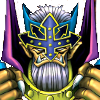
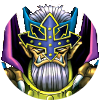
figured out modal stack, updated judgeman pic, played aorund with header... temporarily changed back to what it was before...

diff --git a/App.js b/App.js
@@ -1,21 +1,24 @@
 import React from 'react';
-import { StyleSheet, Text, View, Image } from 'react-native';
+import { Platform, StatusBar, StyleSheet, Text, View, Image } from 'react-native';
 
 import { createStackNavigator } from 'react-navigation';
 
 //(screens)
 import MainMenu from './Screens/MainMenu';
 import CardViewer from './Screens/CardViewer';
-import Card from './Screens/Card';
+
 import DeckBuilder from './Screens/DeckBuilder';
 import Calculator from './Screens/Calculator';
 import RulesResource from './Screens/RulesResource';
 //(/screens)
+//(modals)
+import Card from './Modals/Card';
+//(/modals)
 
 export default class App extends React.Component {
   render() {
     return (
-      <AppNavigator />
+      <RootStack />
     );
   }
 }
@@ -33,45 +36,45 @@ const ImageHeader = () => {
   );
 }
 
-const AppNavigator = createStackNavigator({
+const AppStack = createStackNavigator({
   MainMenu: {
-    screen: MainMenu,
-    navigationOptions: {
-      headerBackground: <ImageHeader style={{ justifyContent: "center" }}/>
-    }
+    screen: MainMenu
   },
   CardViewer: {
-    screen: CardViewer,
-    navigationOptions: {
-      headerBackground: <ImageHeader />
-    }
-  },
-  Card: {
-    screen: Card,
-    navigationOptions: {
-      headerBackground: <ImageHeader />
-    }
+    screen: CardViewer
   },
   DeckBuilder: {
-    screen: DeckBuilder,
-    navigationOptions: {
-      headerBackground: <ImageHeader />
-    }
+    screen: DeckBuilder
   },
   Calculator: {
-    screen: Calculator,
-    navigationOptions: {
-      headerBackground: <ImageHeader />
-    }
+    screen: Calculator
   },
   RulesResource: {
-    screen: RulesResource,
-    navigationOptions: {
-      headerBackground: <ImageHeader />
-    }
+    screen: RulesResource
+  }
+}, {
+  navigationOptions: {
+    headerBackground: <ImageHeader style={{ justifyContent: "center" }}/>
   }
 })
 
+const RootStack = createStackNavigator(
+  {
+    Main: {
+      screen: AppStack,
+    },
+    Card: {
+      screen: Card
+    }
+  },
+  {
+    mode: 'modal',
+    headerMode: 'none',
+    cardStyle: {
+      paddingTop: Platform.OS === 'ios' ? 0 : StatusBar.currentHeight
+    }
+  }
+);
 
 //background image from https://www.deviantart.com/slackermagician/art/millenium-rare-foil-Finished-product-546961387
 //calc icon from https://png.icons8.com/color/100/calculator.png

diff --git a/Screens/MainMenu.js b/Screens/MainMenu.js
@@ -1,5 +1,5 @@
 import React, { Component } from 'react';
-import { View, Text, StyleSheet, Button, ImageBackground, TouchableHighlight, Image } from 'react-native';
+import { View, Text, StyleSheet, Button, ImageBackground, TouchableOpacity, Image } from 'react-native';
 
 class MainMenu extends Component {
     render() {
@@ -14,21 +14,21 @@ class MainMenu extends Component {
             >   
                 <View style={styles.CenterMenu}>
                     <View style={styles.ViewFlexRow}>
-                        <TouchableHighlight onPress={() => this.props.navigation.navigate("CardViewer")}>
+                        <TouchableOpacity onPress={() => this.props.navigation.navigate("CardViewer")}>
                             <Image source={require('../images/CardViewer.png')} />
-                        </TouchableHighlight>
+                        </TouchableOpacity>
 
-                        <TouchableHighlight onPress={() => this.props.navigation.navigate("DeckBuilder")}>
+                        <TouchableOpacity onPress={() => this.props.navigation.navigate("DeckBuilder")}>
                             <Image source={require('../images/DeckBuilder.png')} />
-                        </TouchableHighlight>
+                        </TouchableOpacity>
                     </View>
                     <View style={styles.ViewFlexRow}>
-                        <TouchableHighlight onPress={() => this.props.navigation.navigate("Calculator")}>
+                        <TouchableOpacity onPress={() => this.props.navigation.navigate("Calculator")}>
                             <Image source={require('../images/Calculator.png')} />
-                        </TouchableHighlight>
-                        <TouchableHighlight onPress={() => this.props.navigation.navigate("RulesResource")}>
+                        </TouchableOpacity>
+                        <TouchableOpacity onPress={() => this.props.navigation.navigate("RulesResource")}>
                             <Image source={require('../images/RulesResource.png')} />
-                        </TouchableHighlight>
+                        </TouchableOpacity>
                     </View>
                 </View>
 

diff --git a/Modals/Card.js b/Modals/Card.js
@@ -1,5 +1,5 @@
 import React, { Component } from 'react';
-import { View, Text, StyleSheet, Button, ImageBackground, TouchableHighlight, Image, ScrollView } from 'react-native';
+import { View, Text, StyleSheet, Button, ImageBackground, TouchableOpacity, Image, ScrollView } from 'react-native';
 
 class Card extends Component {
     state = {
@@ -28,7 +28,10 @@ class Card extends Component {
                     flexDirection: 'column',
                     alignContent: 'center'
                 }}
-            >   
+            >
+                <TouchableOpacity style={{ paddingTop: 5, paddingLeft: 5 }} onPress={() => this.props.navigation.goBack()}>
+                    <Text>X</Text>
+                </TouchableOpacity>   
                 {
                     (this.state.card !== '')
                     ? <ScrollView contentContainerStyle={{alignItems: 'center'}}>
